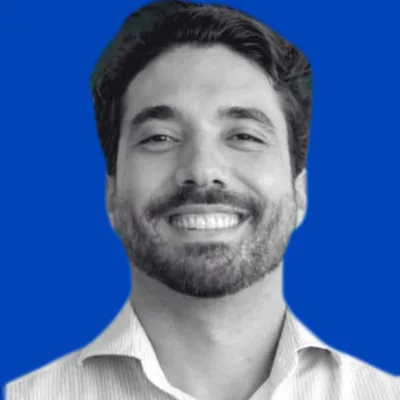
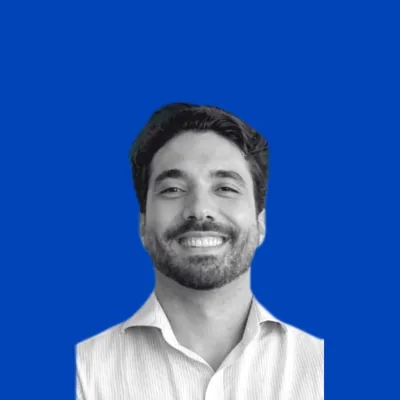
Enquadramento do Montani no padrão (expansão de quadro com azul de marca)

diff --git a/tools/build_images.py b/tools/build_images.py
@@ -79,7 +79,7 @@ PALESTRANTES = {
     "gizelle-rezende":     ("Palestrantes/Gizelle Rezende/Gizelle Rezende", {}),
     "alexandre-argenta":   ("Palestrantes/Alexandre Argenta/Alexandre Argenta - Foto 1.jpg", {}),
     "elaine-fuzer":        ("Palestrantes/Elaine Martins Fuzer/Foto_ELAINE_white.jpg", {}),
-    "lucas-montani":       ("Palestrantes/Lucas Montani/Lucas Montani - Foto 1.jpg", {}),
+    "lucas-montani":       ("Palestrantes/Lucas Montani/Lucas Montani - Foto 1.jpg", {"erode": 9, "expand": True}),
 }
 
 YUNET = cv2.FaceDetectorYN_create(
@@ -197,8 +197,23 @@ def crop_finalista(slug, path, opts):
     if det:
         cx, eye_y, fh = det
         side = min(round(fh * factor), W, H)
-        top = round(eye_y - side / 3.0)
-        left = round(cx - side / 2.0)
+        # expand: quando o original é pequeno demais para o enquadramento padrão,
+        # amplia o quadro preenchendo com o azul de marca (só faz sentido com
+        # SUMMIT_BG=blue, fundo uniforme). Expande para os lados e para cima;
+        # a borda inferior fica presa à foto para não descolar o tronco.
+        if graded and opts.get("expand") and round(fh * factor) > side:
+            side = round(fh * factor)
+            top = round(eye_y - side / 3.0)
+            top = min(top, H - side)          # prende a base na borda inferior
+            left = round(cx - side / 2.0)
+            canvas = Image.new("RGB", (side, side), BRAND_BLUE)
+            canvas.paste(im, (-left, -top))
+            im = canvas
+            W = H = side
+            left = top = 0
+        else:
+            top = round(eye_y - side / 3.0)
+            left = round(cx - side / 2.0)
     else:
         side = min(W, H)
         left = (W - side) // 2
